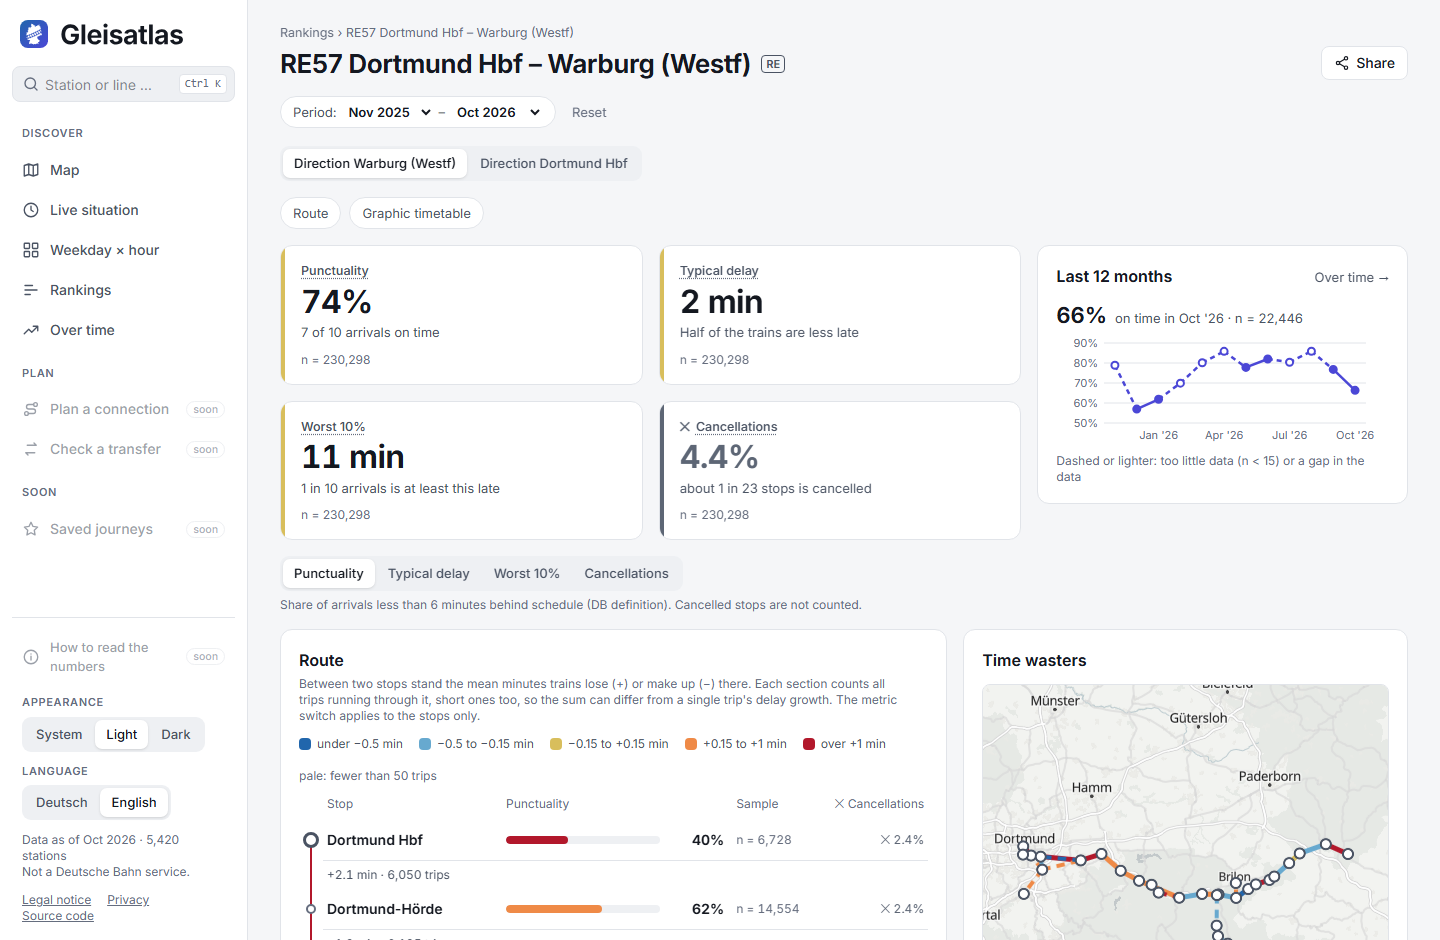
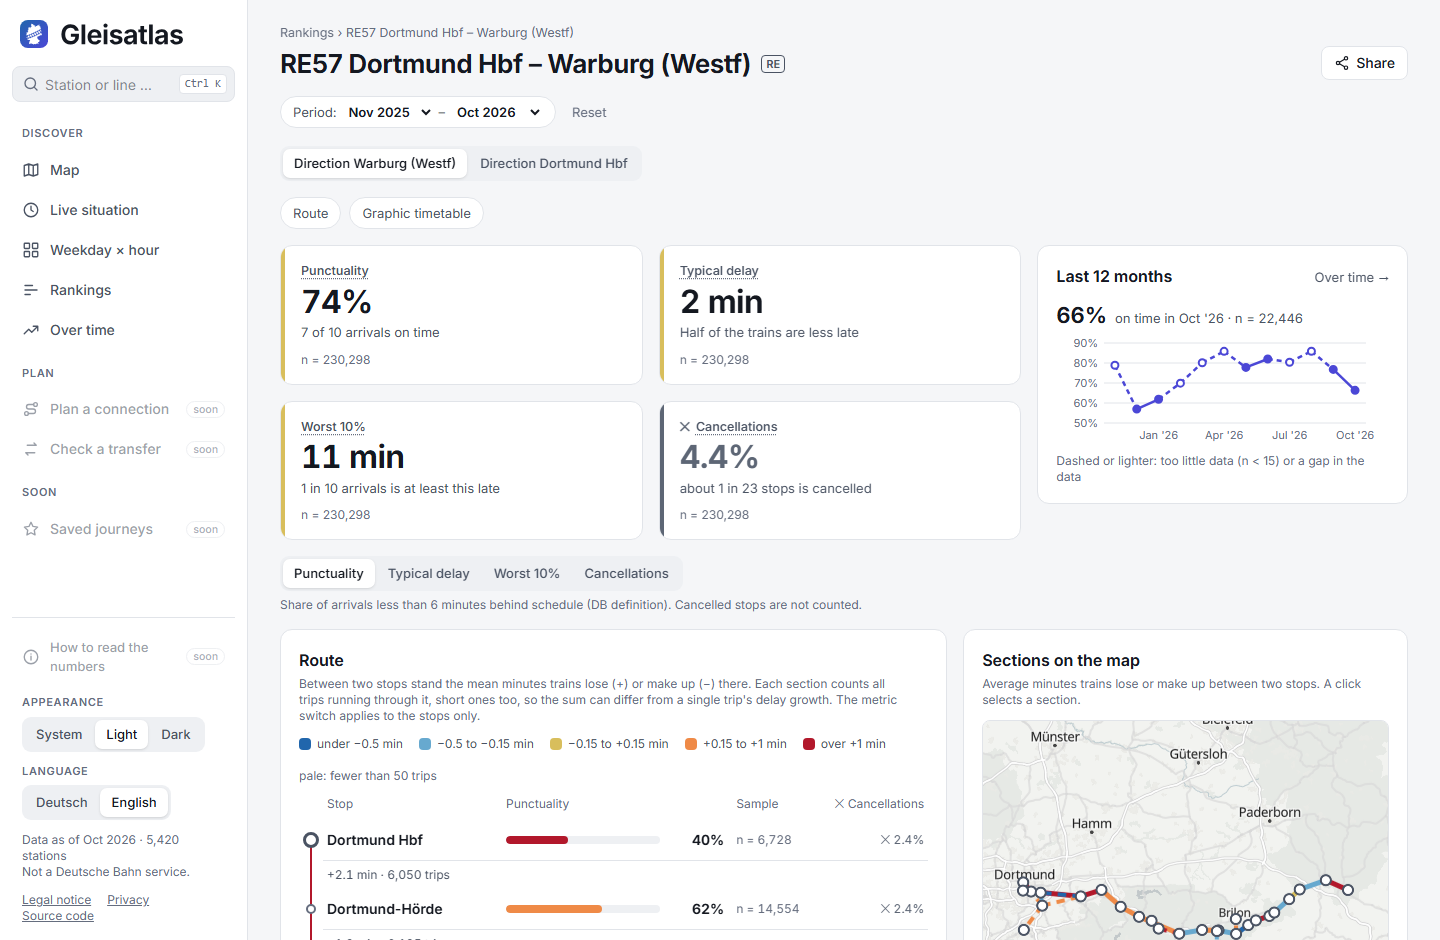
Docs: the README describes the station panel's lines and the line page's section links, with two screenshots retaken

Changed region(s): [[0.6875, 0.833, 0.9375, 1.0], [0.6875, 0.6787, 0.9688, 0.833]]

diff --git a/README.md b/README.md
@@ -9,7 +9,7 @@ Built with Claude Code using test-driven development, planned milestones and rev
 <table>
 <tr>
 <td align="center" valign="top" width="50%"><p><b>Map</b></p><img src="docs/images/map.png" width="100%" alt="Map of Germany with every station as a dot coloured by punctuality"><br>Every station as a dot, coloured by punctuality and sized by the number of stops, on a map of Germany.</td>
-<td align="center" valign="top" width="50%"><p><b>Map (dark) with a station</b></p><img src="docs/images/map-dark.png" width="100%" alt="Dark map zoomed to Köln Hbf with the station panel open"><br>A click on a dot opens the station's key figures in a panel next to the map, here in the dark theme.</td>
+<td align="center" valign="top" width="50%"><p><b>Map (dark) with a station</b></p><img src="docs/images/map-dark.png" width="100%" alt="Dark map zoomed to Köln Hbf with the station panel open"><br>A click on a dot opens the station's key figures and its busiest lines in a panel next to the map, here in the dark theme.</td>
 </tr>
 <tr>
 <td align="center" valign="top" width="50%"><p><b>Map for a range of days</b></p><img src="docs/images/period.png" width="100%" alt="Map with two date fields set to 10 to 31 October 2026"><br>Any range of days up to the last complete one, set with two date fields, here 10th to 31st October 2026.</td>
@@ -35,13 +35,13 @@ Built with Claude Code using test-driven development, planned milestones and rev
 
 ## Features
 
-- **Map**: about 5,400 stations on a map of Germany, coloured by punctuality, typical delay, worst 10% (P90) or cancellations, for any range of days up to the last complete one (two date fields).
+- **Map**: about 5,400 stations on a map of Germany, coloured by punctuality, typical delay, worst 10% (P90) or cancellations, for any range of days up to the last complete one (two date fields). A click on a station opens its key figures and its five busiest lines.
 - **Live situation**: the 131 large stations for one day, today so far against the same hours of the usual days (the same weekday over the 12 weeks before), or any past day back to 2024-07. The 16 federal states show their deviation from the usual as a card and an area, Germany as a card, every station as a dot. Today comes from its own collector for the DB Timetables API (optional, see below). Without the collector, today comes from the raw data that [piebro/deutsche-bahn-data](https://huggingface.co/datasets/piebro/deutsche-bahn-data) has already published for the day, which is partial and up to about 10 hours behind.
 - **Four metrics on every page**: one switch for punctuality, typical delay, worst 10% and cancellations. The choice stays when the page changes.
 - **Station page**: key figures, the delay distribution, the weekday × hour pattern, long-distance and regional trains side by side, the lines at the station and a sparkline by month.
 - **Weekday × hour heatmap**: when trains are least and most punctual, with a short summary.
 - **Rankings**: stations or lines, worst and best, with a minimum sample so that chance doesn't win.
-- **Line page**: one line along its route with the four metrics per stop, the sections where trains lose or make up time (on a map and along the route), and a graphic timetable of planned against actual trips for any of the last 28 days.
+- **Line page**: one line along its route with the four metrics per stop, the sections where trains lose or make up time (on a map and along the route), and a graphic timetable of planned against actual trips for any of the last 28 days. A section picked on the route or the map has its own link.
 - **Time series**: day by day with a trend, or monthly as a switch (lines are monthly). Timetable changes and gaps in the data are marked.
 - **Filters in the URL**: period, category (regional or long-distance), station and metric live in the link, so a shared link opens the same view.
 - **Search**: stations and lines, Ctrl+K jumps to the search field.
